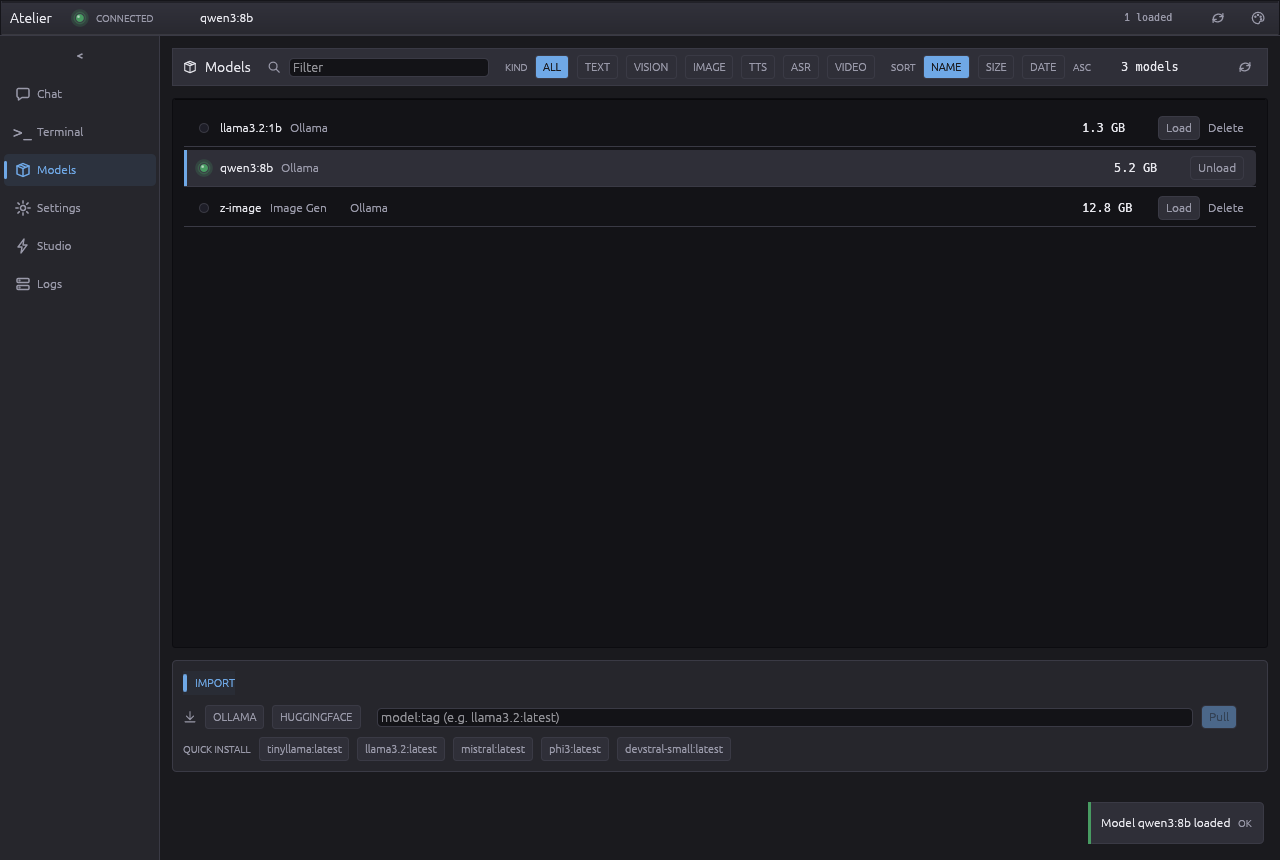
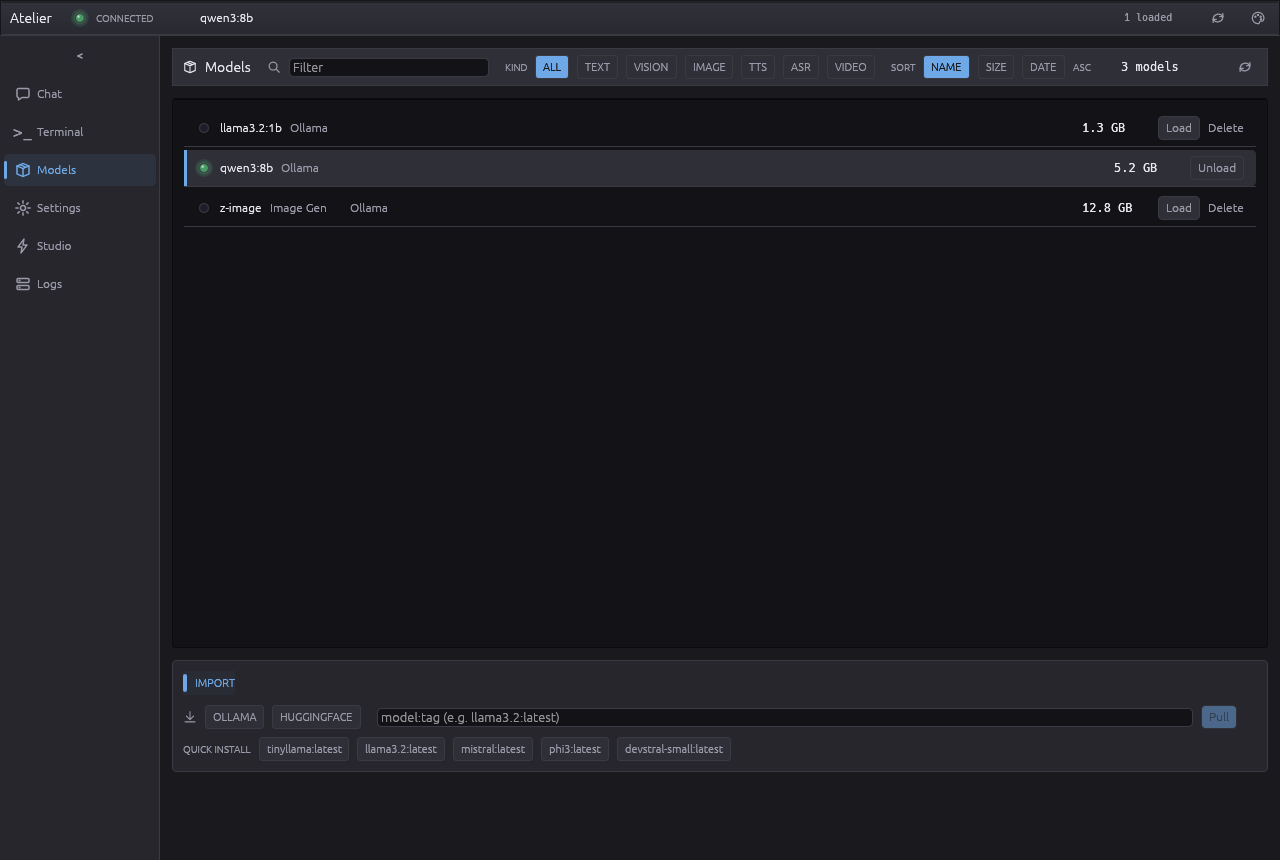
A screenshot photographs only its own fixture
The skin is one process-wide value and the software renderer is not safe
under two threads; the documentation shots are now one test that holds
the renderer, and the unit tests that apply or compare a skin hold a
lock of their own. The photographed application is pointed at the
discard port, so a server running on the machine can no longer put its
models in the picture, and the startup load it used to trigger against
that server is refused at once; its toast is dropped before the frame.
The screenshots are regenerated under the default build, with audio.

Changed region(s): [[0.8438, 0.907, 1.0, 0.9977]]

diff --git a/src/screenshots.rs b/src/screenshots.rs
@@ -1,8 +1,8 @@
 //! The screenshots the documentation shows, drawn by running the application.
 //!
-//! `cargo test --release screenshots -- --ignored` writes them under `docs/img/`. Ignored by
-//! default: they write files and need a graphics adapter, where the rest of the suite runs
-//! anywhere.
+//! `cargo test --release screenshots -- --ignored` writes them under `docs/img/`, and the
+//! light renders under `target/light/`. Ignored by default: they write files and need a
+//! graphics adapter, where the rest of the suite runs anywhere.
 //!
 //! The harness drives the real `eframe::App`, so a shot contains the window as it is built -
 //! the top bar, the sidebar, the tab strip and the panel - rather than one panel rendered on
@@ -11,7 +11,7 @@
 //!
 //! The state is overwritten after construction. `AppConfig::load` reads the developer's own
 //! configuration off disk, and a screenshot must not depend on it, nor carry a server address
-//! someone happens to have saved.
+//! someone happens to have saved, nor the models of a server that happens to be running.
 
 #![cfg(test)]
 
@@ -25,6 +25,20 @@ use crate::state::{ChatMessage, MessageTiming, Section};
 
 const OUT: &str = "docs/img";
 const WINDOW: (f32, f32) = (1280.0, 860.0);
+
+/// Where the application is pointed while it is photographed: the discard port, which
+/// refuses at once. The machine that renders the documentation may well run a server, and
+/// the first refresh would otherwise replace the fixture models with the real list before
+/// the sixth frame.
+const NO_SERVER: &str = "http://127.0.0.1:9";
+
+/// One headless renderer at a time. The software adapter is not safe under two threads
+/// creating and rendering harnesses at once, and the test binary runs its tests in
+/// parallel; every test here holds this for its duration.
+fn render_lock() -> std::sync::MutexGuard<'static, ()> {
+    static RENDER: std::sync::Mutex<()> = std::sync::Mutex::new(());
+    RENDER.lock().unwrap_or_else(|poisoned| poisoned.into_inner())
+}
 
 fn model(name: &str, size: &str, family: &str, caps: &[&str]) -> ModelInfo {
     ModelInfo {
@@ -57,8 +71,13 @@ fn shoot_skin(
     let mut harness = Harness::builder()
         .with_size(egui::vec2(WINDOW.0, WINDOW.1))
         .build_eframe(move |cc| {
-            let mut app = LLMGuiApp::new(cc, Args { model: None, server: None }, LogBuffer::new(256));
+            let mut app = LLMGuiApp::new(
+                cc,
+                Args { model: None, server: Some(NO_SERVER.to_string()) },
+                LogBuffer::new(256),
+            );
             app.config = AppConfig::default();
+            app.config.server_url = NO_SERVER.to_string();
             app.config.dark_theme = dark;
             crate::theme::apply(&cc.egui_ctx, dark);
             app.current_section = section;
@@ -80,6 +99,10 @@ fn shoot_skin(
     // A fixed number of steps, never `run`: a panel with a spinner asks for another frame
     // forever, and `run` gives up rather than returning one to photograph.
     harness.run_steps(6);
+    // The startup load of the configured model was refused by the discard port; its toast
+    // is a fact about this machine, not about the view, so it is dropped before the frame.
+    harness.state_mut().toasts.clear();
+    harness.run_steps(1);
     std::fs::create_dir_all(out).unwrap_or_else(|e| panic!("create {out}: {e}"));
     harness
         .render()
@@ -91,8 +114,6 @@ fn shoot_skin(
 /// Every documented view on the light skin, into target/light. The light
 /// palette has to carry the same surfaces as the dark one, and this is how
 /// to look at it.
-#[test]
-#[ignore = "writes target/light and needs a graphics adapter"]
 fn light_skin() {
     shoot_skin(LIGHT_OUT, "atelier-chat", false, Section::Chat, |app| {
         app.chat.messages.push_back(ChatMessage {
@@ -117,10 +138,22 @@ fn light_skin() {
     shoot_skin(LIGHT_OUT, "atelier-settings", false, Section::Settings, |_| {});
 }
 
+/// Every documented view, then the light renders. One test rather than one per view: the
+/// skin is one process-wide value, and two shots on parallel threads would photograph each
+/// other's skin.
+#[test]
+#[ignore = "writes docs/img and target/light, needs a graphics adapter"]
+fn documentation() {
+    let _renderer = render_lock();
+    chat();
+    media_studio();
+    models();
+    logs();
+    light_skin();
+}
+
 /// A conversation mid-answer. An empty chat shows the placeholder and none of what the tab is
 /// for, so the fixture is a exchange with a reply still streaming.
-#[test]
-#[ignore = "writes docs/img and needs a graphics adapter"]
 fn chat() {
     shoot("atelier-chat", Section::Chat, |app| {
         app.chat.messages.push_back(ChatMessage {
@@ -157,8 +190,6 @@ fn chat() {
 }
 
 /// Media Studio on the image panel, with a prompt and the controls a render actually uses.
-#[test]
-#[ignore = "writes docs/img and needs a graphics adapter"]
 fn media_studio() {
     shoot("atelier-media", Section::MediaStudio, |app| {
         app.media.kind = crate::state::MediaKind::Image;
@@ -167,15 +198,11 @@ fn media_studio() {
 }
 
 /// The model list with one model loaded, and the import panel under it.
-#[test]
-#[ignore = "writes docs/img and needs a graphics adapter"]
 fn models() {
     shoot("atelier-models", Section::Models, |_| {});
 }
 
 /// The server log with a line of every level, one of them a warning and one an error.
-#[test]
-#[ignore = "writes docs/img and needs a graphics adapter"]
 fn logs() {
     shoot("atelier-logs", Section::ServerLog, |app| {
         let lines: [(LogLevel, &str, &str, &str); 8] = [
@@ -203,6 +230,7 @@ fn logs() {
 #[test]
 #[ignore = "diagnostic"]
 fn which_literal_glyphs_resolve() {
+    let _renderer = render_lock();
     for (name, glyph) in [
         ("U+25CF circle", "\u{25CF}"),
         ("U+25C6 diamond", "\u{25C6}"),

diff --git a/src/theme.rs b/src/theme.rs
@@ -123,6 +123,15 @@ pub fn palette() -> &'static Palette {
     if is_dark() { &DARK } else { &LIGHT }
 }
 
+/// The skin is one process-wide value, and the test binary runs its tests
+/// on parallel threads. A test that applies a skin or compares two colours
+/// of the palette holds this for its duration.
+#[cfg(test)]
+pub(crate) fn skin_lock() -> std::sync::MutexGuard<'static, ()> {
+    static SKIN_LOCK: std::sync::Mutex<()> = std::sync::Mutex::new(());
+    SKIN_LOCK.lock().unwrap_or_else(|poisoned| poisoned.into_inner())
+}
+
 pub fn bg() -> Color32 { palette().bg }
 pub fn panel() -> Color32 { palette().panel }
 pub fn raised() -> Color32 { palette().raised }
@@ -521,6 +530,7 @@ mod tests {
 
     #[test]
     fn apply_installs_the_palette() {
+        let _skin = skin_lock();
         let ctx = egui::Context::default();
         apply(&ctx, false);
         assert!(!is_dark());

diff --git a/src/app.rs b/src/app.rs
@@ -605,7 +605,7 @@ pub struct LLMGuiApp {
     /// "1 loaded · 2 GPU" line).
     /// Transient bottom-right notifications. Pushed via `self.toast(..)`,
     /// rendered + expired in update() after the CentralPanel.
-    toasts: Vec<Toast>,
+    pub(crate) toasts: Vec<Toast>,
     /// Set when the user clicks the top-bar Refresh so the following
     /// ModelsFetched can fire a "refreshed" toast — without this,
     /// every background/startup refresh would emit a noisy toast.

diff --git a/src/ui/surface.rs b/src/ui/surface.rs
@@ -239,6 +239,7 @@ mod tests {
 
     /// Runs `body` once in a headless frame on the skin asked for.
     fn frame(dark: bool, body: impl FnMut(&mut Ui)) {
+        let _skin = theme::skin_lock();
         let mut harness = egui_kittest::Harness::new_ui(body);
         theme::apply(&harness.ctx, dark);
         harness.run();

diff --git a/src/server_log_tab.rs b/src/server_log_tab.rs
@@ -209,6 +209,7 @@ mod tests {
     /// colour, and not each other's.
     #[test]
     fn only_warn_and_error_are_coloured() {
+        let _skin = theme::skin_lock();
         let dim = theme::ink_dim();
         assert_eq!(level_stripe(LogLevel::Trace), dim);
         assert_eq!(level_stripe(LogLevel::Debug), dim);

diff --git a/src/ui/widgets.rs b/src/ui/widgets.rs
@@ -347,6 +347,7 @@ mod tests {
     use super::*;
 
     fn frame(dark: bool, body: impl FnMut(&mut Ui)) {
+        let _skin = theme::skin_lock();
         let mut harness = egui_kittest::Harness::new_ui(body);
         theme::apply(&harness.ctx, dark);
         harness.run();
